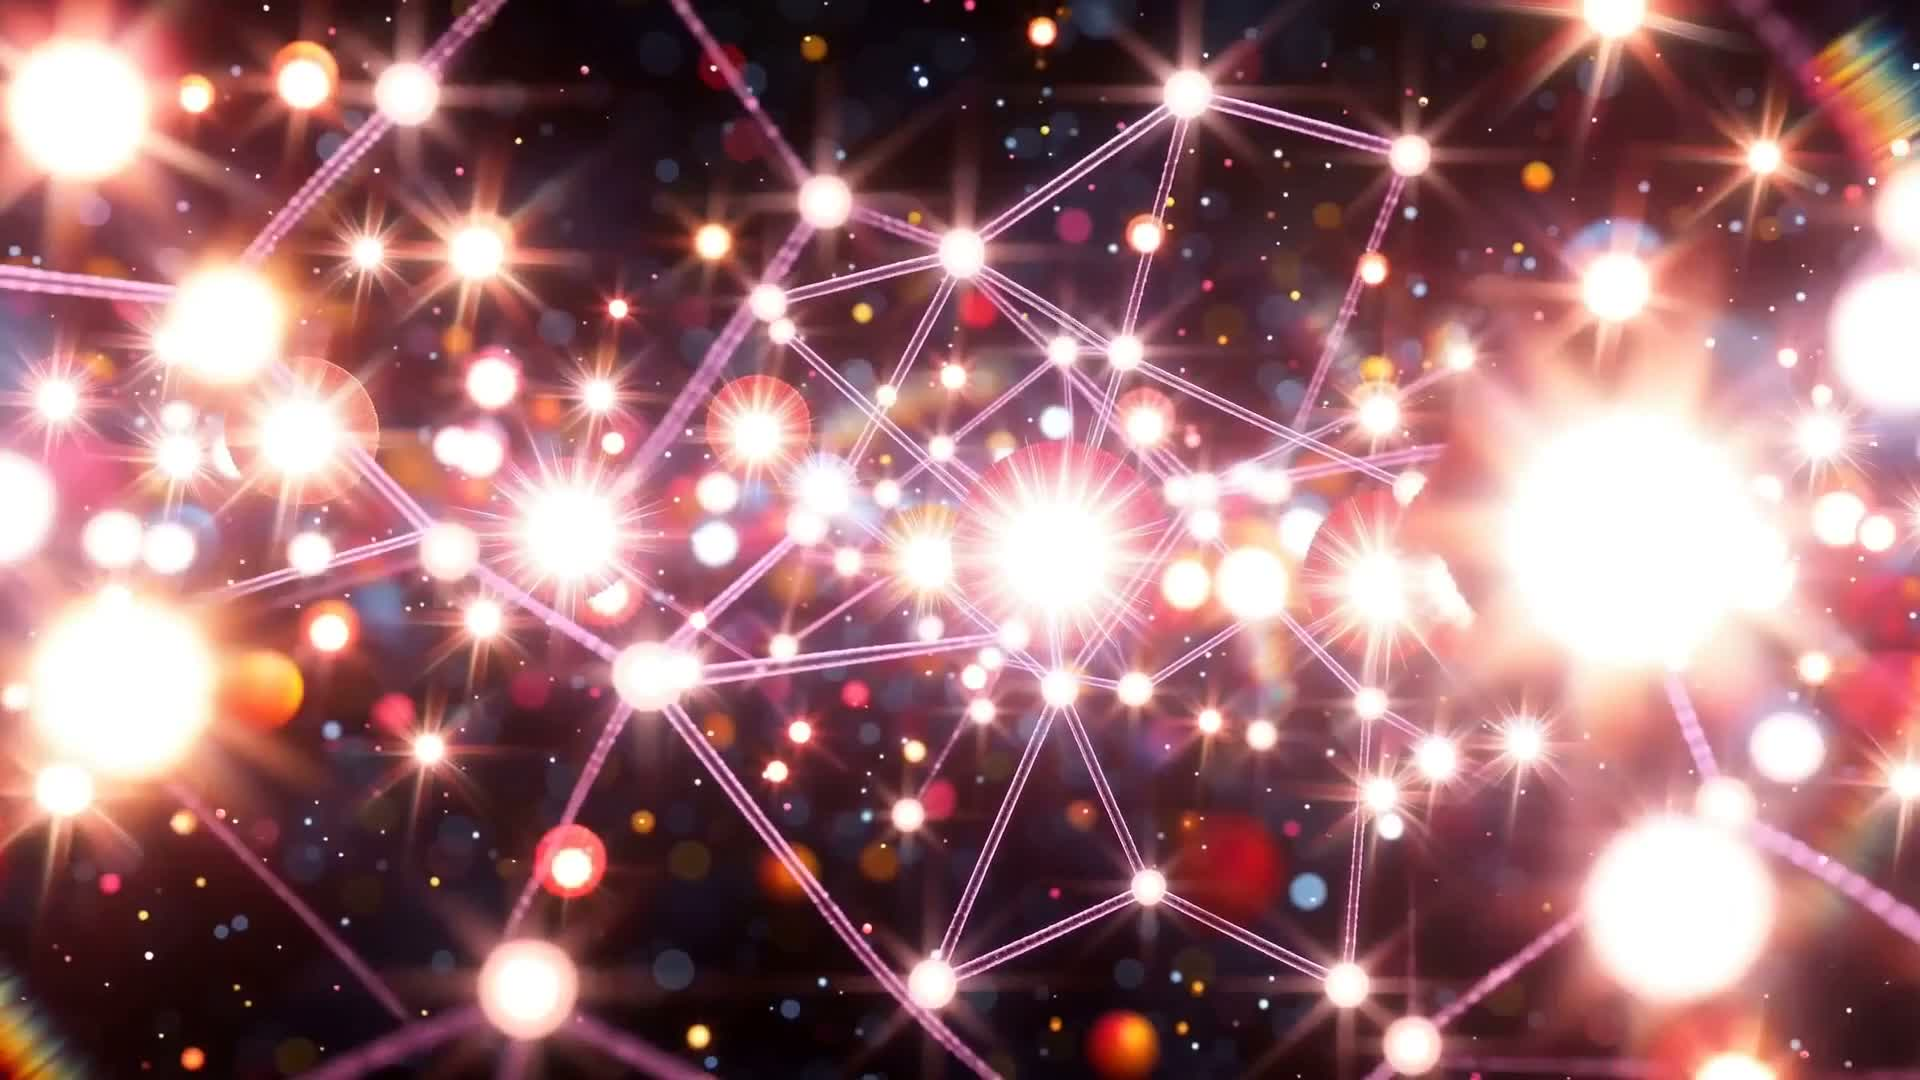
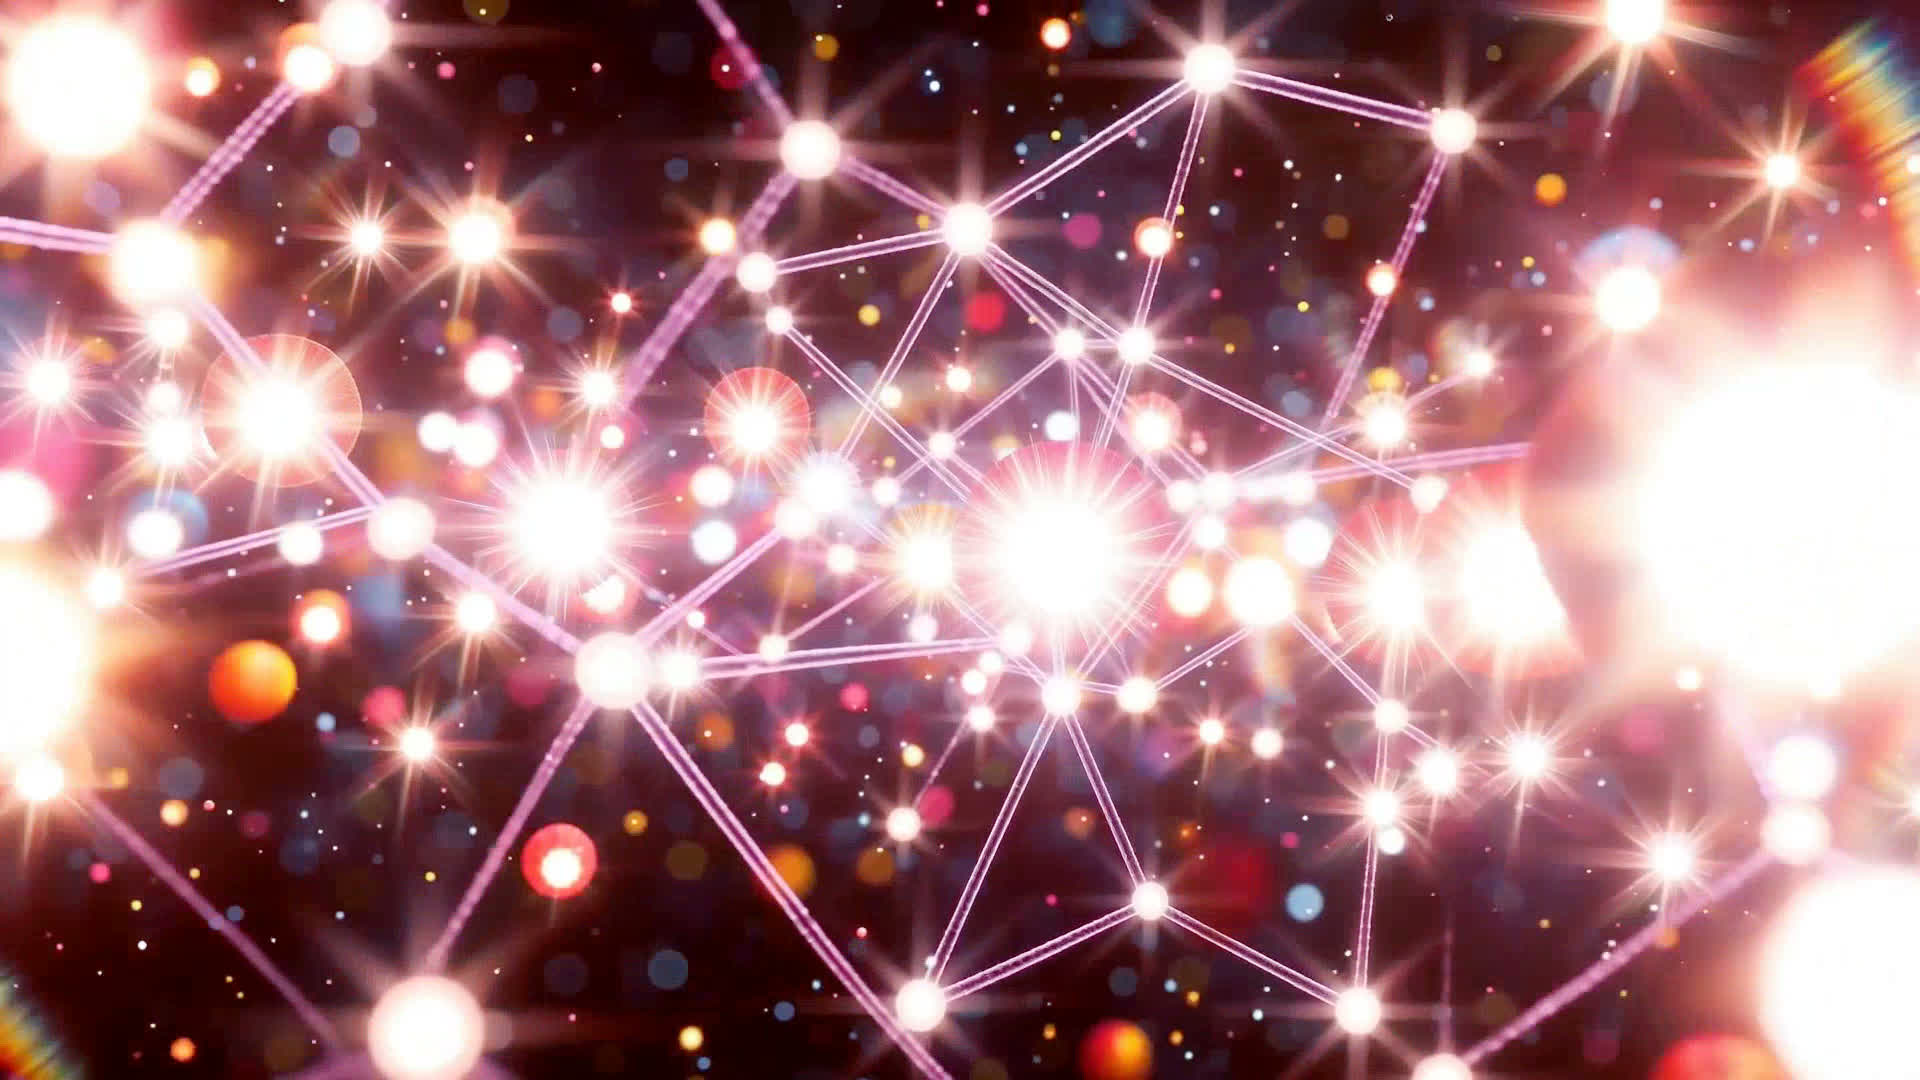
Swap hero video for Seedance v2: 45s loop + true portrait on mobile
New Seedance loop produces three matched-content variants at different
aspect ratios. All re-encoded H.264 CRF 30, audio stripped, +faststart:

- hero.mp4               1920x1080 landscape    15 MB (was 6.8 MB / 11s)
- hero-portrait.mp4      1080x1920 portrait     10 MB (replaces hero-mobile.mp4)
- hero-square.mp4        1080x1080 square      8.2 MB (parked for future social/OG use)
- hero-poster.jpg        regenerated from new source, 150 KB

Loop length: 11s -> 45s. Bigger payload but content is much richer; CRF
30 keeps total under 16 MB for the served variant.

<source> switch updated:
  Old:  media="(max-width: 768px)" -> hero-mobile.mp4 (cropped landscape)
  New:  media="(orientation: portrait) and (max-width: 900px)" -> hero-portrait.mp4

Phones in portrait now get the true 9:16 version that fills their screen
end-to-end. Tablets in portrait <900px also pick it up. Phones in
landscape (rare) fall through to the 16:9 desktop version.

hero-square.mp4 is sitting in /public unreferenced — available for
future use as an OG video, Instagram post, or compact hero variant.

diff --git a/src/routes/index.tsx b/src/routes/index.tsx
@@ -269,7 +269,7 @@ function Hero() {
             preload="auto"
             poster="/hero-poster.jpg"
           >
-            <source src="/hero-mobile.mp4#t=0.001" type="video/mp4" media="(max-width: 768px)" />
+            <source src="/hero-portrait.mp4#t=0.001" type="video/mp4" media="(orientation: portrait) and (max-width: 900px)" />
             <source src="/hero.mp4#t=0.001" type="video/mp4" />
           </video>
         )}